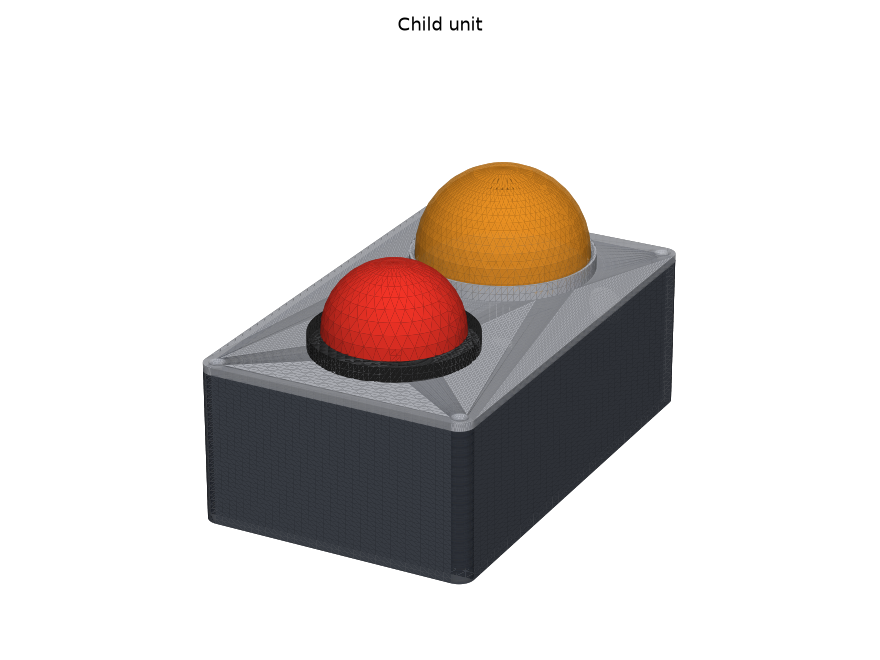
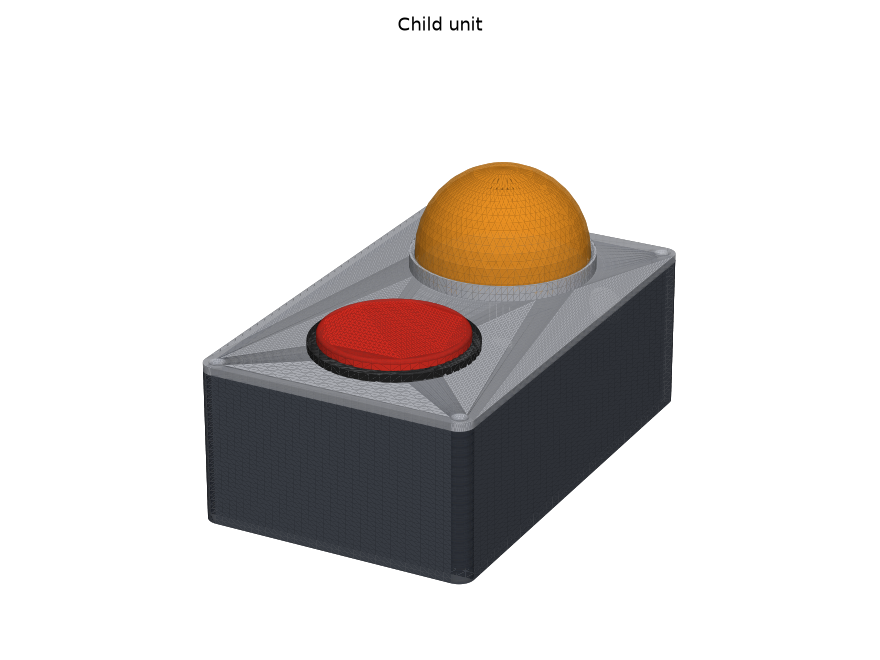
プレビュー画像のボタンを実物に合わせて薄く平らな形に
採用している 60mm ボタンは天板から少ししか出ない薄い形なので、
プレビュー (README の子機・親機の画像) を半球の頭から
黒い縁 + 平らなボタン面に描き直した。

Changed region(s): [[0.3375, 0.3636, 0.5523, 0.5758]]

diff --git a/hardware/enclosure/render_preview.py b/hardware/enclosure/render_preview.py
@@ -14,7 +14,7 @@ import matplotlib
 matplotlib.use("Agg")
 import matplotlib.pyplot as plt  # noqa: E402
 import numpy as np  # noqa: E402
-from build123d import Box, Cylinder, Part, Pos, Rot, Sphere  # noqa: E402
+from build123d import Axis, Box, Cylinder, Part, Pos, Rot, Sphere, fillet  # noqa: E402
 from mpl_toolkits.mplot3d.art3d import Poly3DCollection  # noqa: E402
 
 import enclosure as enc  # noqa: E402
@@ -94,11 +94,12 @@ def render(items, path: Path, elev: float, azim: float, title: str) -> None:
     print("wrote", path)
 
 
-def arcade_button(x: float, y: float, z: float, rgb_part_only: bool = False) -> Part:
-    """プレビュー用の 60mm ボタン (形だけ)"""
-    rim = Pos(x, y, z) * Cylinder(32, 6, align=enc.MIN)
-    cap = Pos(x, y, z + 6) * (Sphere(27) & Pos(0, 0, 13.5) * Box(60, 60, 27))
-    return rim, cap
+def arcade_button(x: float, y: float, z: float) -> tuple[Part, Part]:
+    """プレビュー用の 60mm ボタン (形だけ)。採用品は天板から少しだけ出る、薄くて平らな形"""
+    rim = Pos(x, y, z) * Cylinder(32, 3, align=enc.MIN)  # 黒い縁
+    cap = Cylinder(28.5, 4, align=enc.MIN)  # 色のついた平らなボタン面
+    cap = fillet(cap.edges().sort_by(Axis.Z)[-1], radius=1.5)
+    return rim, Pos(x, y, z + 3) * cap
 
 
 GRAY_DARK = (0.30, 0.32, 0.36)
